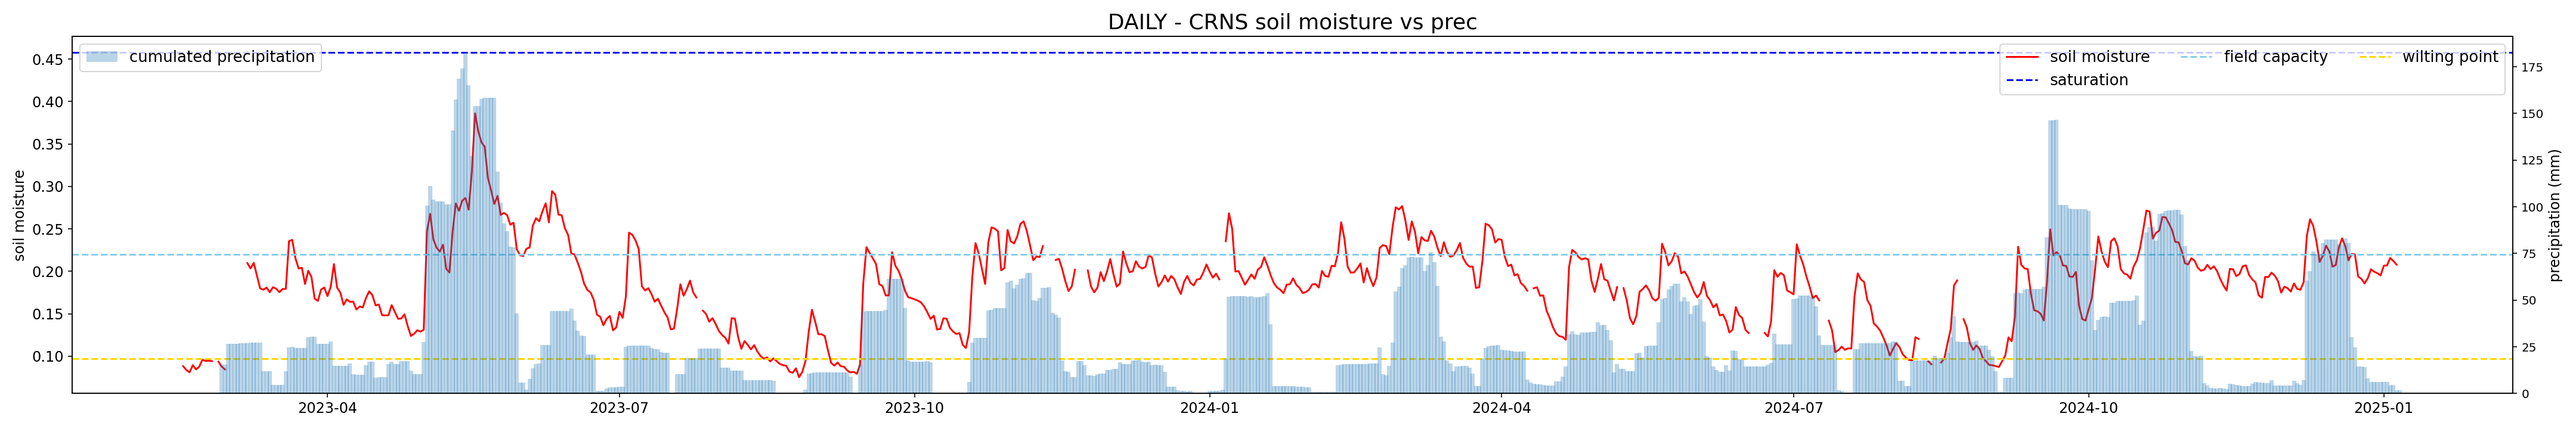
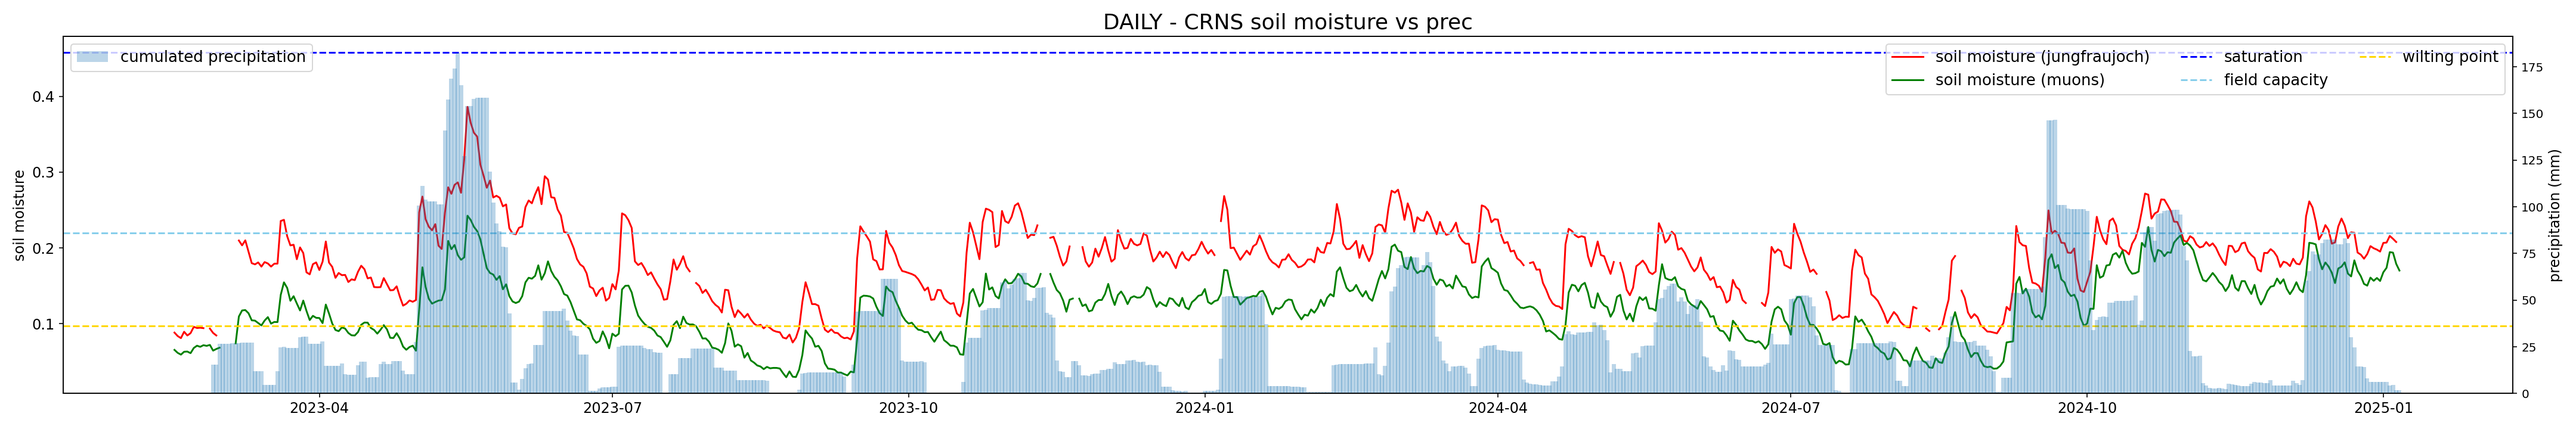
added finapp sm values in graphs

diff --git a/SCRIPT/correctedScript.py b/SCRIPT/correctedScript.py
@@ -12,19 +12,20 @@ import os
 print("Starting up...")
 stationsMetadata = pd.read_csv(os.getcwd() + '\\metadati_stazioni.csv')
 print("You'll need to type the ID of the station. \n\tOZZANO DELL'EMILIA - 61\n\tCAVRIAGO - 65\n\tMARINA DI RAVENNA - 66\n\tSAN PIETRO CAPOFIUME - 60")
-#stationID = int(input("Your ID: "))
-stationID = 60
-folderName = stationsMetadata.loc[stationsMetadata.loc[(stationsMetadata == stationID).any(axis=1)].index[0]].iat[7] 
+stationID = int(input("Your ID: "))
+#stationID = 61
+station = stationsMetadata.loc[(stationsMetadata == stationID).any(axis=1)]
+folderName = stationsMetadata.loc[station.index[0]].iat[7] 
 
+    
 #site specific values
-P_REF = stationsMetadata.loc[stationsMetadata.loc[(stationsMetadata == stationID).any(axis=1)].index[0]].iat[2]          # DEPENDS ON SITE
-N0 = stationsMetadata.loc[stationsMetadata.loc[(stationsMetadata == stationID).any(axis=1)].index[0]].iat[4]             # DEPENDS ON SITE
-BD = stationsMetadata.loc[stationsMetadata.loc[(stationsMetadata == stationID).any(axis=1)].index[0]].iat[5]             # DEPENDS ON SITE
-THETA_OFFSET = stationsMetadata.loc[stationsMetadata.loc[(stationsMetadata == stationID).any(axis=1)].index[0]].iat[6]   # DEPENDS ON SITE
-SATURATION = stationsMetadata.loc[stationsMetadata.loc[(stationsMetadata == stationID).any(axis=1)].index[0]].iat[8]   # DEPENDS ON SITE
-FIELD_CAPACITY = stationsMetadata.loc[stationsMetadata.loc[(stationsMetadata == stationID).any(axis=1)].index[0]].iat[9]   # DEPENDS ON SITE
-WILTING_POINT = stationsMetadata.loc[stationsMetadata.loc[(stationsMetadata == stationID).any(axis=1)].index[0]].iat[10]   # DEPENDS ON SITE
-
+P_REF = stationsMetadata.loc[station.index[0]].iat[2]            # DEPENDS ON SITE
+N0 = stationsMetadata.loc[station.index[0]].iat[4]               # DEPENDS ON SITE
+BD = stationsMetadata.loc[station.index[0]].iat[5]               # DEPENDS ON SITE
+THETA_OFFSET = stationsMetadata.loc[station.index[0]].iat[6]     # DEPENDS ON SITE
+SATURATION = stationsMetadata.loc[station.index[0]].iat[8]       # DEPENDS ON SITE
+FIELD_CAPACITY = stationsMetadata.loc[station.index[0]].iat[9]   # DEPENDS ON SITE
+WILTING_POINT = stationsMetadata.loc[station.index[0]].iat[10]   # DEPENDS ON SITE
 
 #atmospheric corrections
 NINC_REF = 150
@@ -102,7 +103,8 @@ def plotDailyData(dailyData):
     ax2 = ax.twinx()
     x = dailyData.index
     ax2.bar(x, dailyData['cumulatedPrec'], width = 1.3, label = "cumulated precipitation", alpha=0.3)
-    ax.plot(x, dailyData['soil_moisture'], label = "soil moisture", color = "red")
+    ax.plot(x, dailyData['soil_moisture'], label = "soil moisture (jungfraujoch)", color = "red")
+    ax.plot(x, dailyData['soil_moisture_volumetric[m3/m3]'], label = "soil moisture (muons)", color  = 'green')
     ax.set_ylabel("soil moisture", fontsize = 12)
     ax2.set_ylabel("precipitation (mm)",fontsize=12)
     ax.axhline(y=SATURATION, ls='--', label="saturation", color = 'blue')
@@ -123,7 +125,8 @@ def plotBiWeeklyData(biWeeklyData):
     ax2 = ax.twinx()
     x = biWeeklyData.index
     ax2.bar(x, biWeeklyData['PREC'], width = 8, label = "cumulated precipitation", alpha=0.3, edgecolor='black')
-    ax.plot(x, biWeeklyData['soil_moisture'], label = "soil moisture", color = "red")
+    ax.plot(x, biWeeklyData['soil_moisture'], label = "soil moisture(jungfraujoch)", color = "red")
+    ax.plot(x, biWeeklyData['soil_moisture_volumetric[m3/m3]'], label = "soil moisture (muons)", color  = 'green')
     ax.set_ylabel("soil moisture", fontsize = 12)
     ax2.set_ylabel("precipitation (mm)",fontsize=12)
     ax.axhline(y=SATURATION, ls='--', label="saturation", color = 'blue')
@@ -194,7 +197,7 @@ def main():
     print("Calculating soil moisture...", end ="")
     data['soil_moisture'] = (A0/((data["movingAvg_neutrons"]/N0)-A1)-A2-THETA_OFFSET)*BD
     
-    #hourly, daily, semi-monthly data
+    #save hourly, daily, semi-monthly data
     if not (os.path.isdir(os.getcwd() + '\\' + folderName + '\\RESULTS')):
         os.makedirs(os.getcwd() + '\\' + folderName + '\\RESULTS')
         
